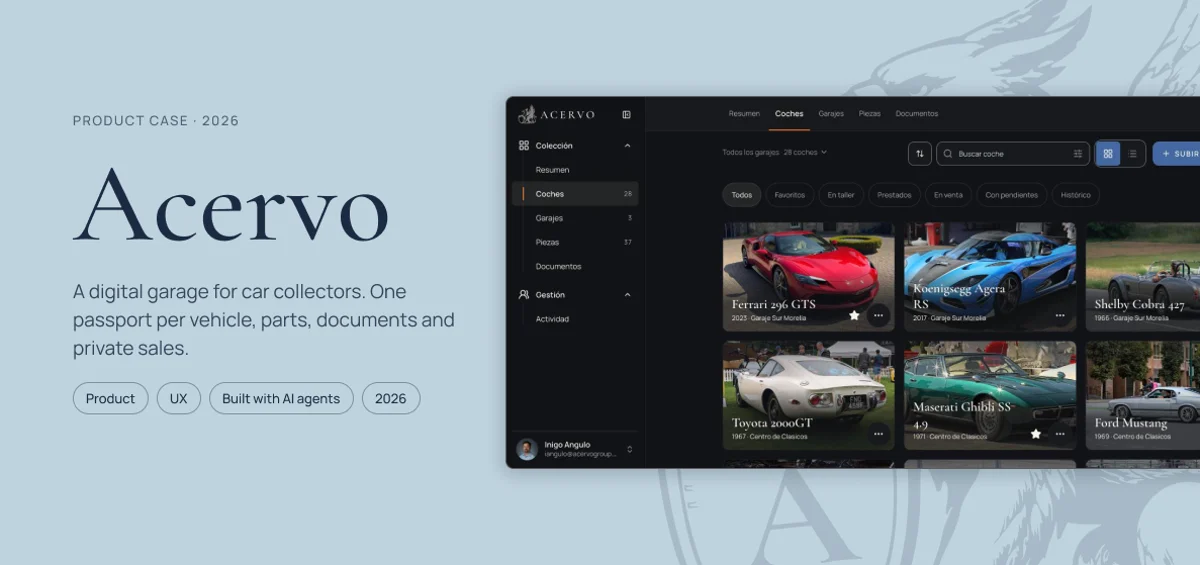
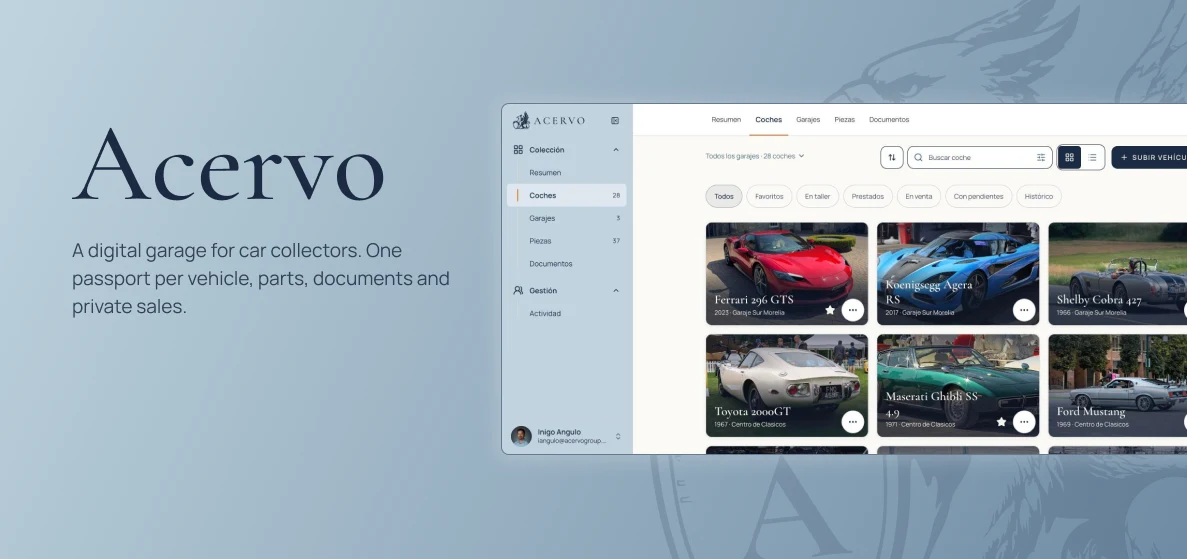
Acervo card thumbnail from Figma (no chips), also as OG image
Claude-Session: https://claude.ai/code/session_01HvDhLU7zv1GEaTFUNL8YVh

diff --git a/index.html b/index.html
@@ -960,7 +960,7 @@ window.addEventListener('DOMContentLoaded',function(){
 
 <div class="layer layer--raised"><div class="mx"><div class="sh"><span>// work</span></div>
 <div class="cards">
-<a href="work/acervo.html" class="cd cd--f cd--1"><div class="cd__img"><img src="img/acervo-card.webp" width="1200" height="630" decoding="async" alt="Acervo private automotive collections" style="width:100%;height:100%;object-fit:cover;object-position:center;position:absolute;inset:0"></div><div class="cd__body"><div class="cd__type"><span class="cd__tag cd__tag--who">Acervo &#183; Co-founder</span><span class="cd__tag cd__tag--what">AI Build &#183; Agent Team</span><span class="cd__tag cd__tag--result">17 Days to Production</span><span class="cd__tag cd__tag--live">Live &#183; app.acervogroup.com</span></div><h3 class="cd__name">Acervo</h3><p class="cd__desc">A private platform for automotive collections in Mexico: a digital passport per car, garages, parts custody, AI assisted onboarding and a sealed-offer private market. I owned product and engineering and built it solo leading a team of eight AI agents with two human gates: first commit to production in 17 days, 15 security gated releases and 500+ PRs in seven weeks, and the first 100-car collection loading.</p><div class="cd__foot"><span class="cd__yr">View case study</span><span class="cd__go">&#8594;</span></div></div></a>
+<a href="work/acervo.html" class="cd cd--f cd--1"><div class="cd__img"><img src="img/acervo-card.webp" width="1187" height="559" decoding="async" alt="Acervo private automotive collections" style="width:100%;height:100%;object-fit:cover;object-position:center;position:absolute;inset:0"></div><div class="cd__body"><div class="cd__type"><span class="cd__tag cd__tag--who">Acervo &#183; Co-founder</span><span class="cd__tag cd__tag--what">AI Build &#183; Agent Team</span><span class="cd__tag cd__tag--result">17 Days to Production</span><span class="cd__tag cd__tag--live">Live &#183; app.acervogroup.com</span></div><h3 class="cd__name">Acervo</h3><p class="cd__desc">A private platform for automotive collections in Mexico: a digital passport per car, garages, parts custody, AI assisted onboarding and a sealed-offer private market. I owned product and engineering and built it solo leading a team of eight AI agents with two human gates: first commit to production in 17 days, 15 security gated releases and 500+ PRs in seven weeks, and the first 100-car collection loading.</p><div class="cd__foot"><span class="cd__yr">View case study</span><span class="cd__go">&#8594;</span></div></div></a>
 <a href="work/checkout.html" class="cd cd--3"><div class="cd__img"><img src="img/gyg-card.webp" width="1080" height="1440" decoding="async" loading="lazy" alt="GetYourGuide checkout redesign" style="width:100%;height:100%;object-fit:cover;object-position:center 30%;position:absolute;inset:0"></div><div class="cd__body"><div class="cd__type"><span class="cd__tag cd__tag--who">GetYourGuide</span><span class="cd__tag cd__tag--what">CRO &#183; 10 A/B Tests</span><span class="cd__tag cd__tag--result">+11% Conversion</span><span class="cd__tag cd__tag--live">Live in Production</span></div><h3 class="cd__name">Checkout Funnel Redesign</h3><p class="cd__desc">The team was optimizing the wrong step. 38% of converters left checkout and came back with no re-entry experience. The problem wasn't payment. It was the gap nobody measured. +11%, 4 EU markets.</p><div class="cd__foot"><span class="cd__yr">View case study</span><span class="cd__go">&#8594;</span></div></div></a>
 <a href="work/shelfflow.html" class="cd cd--5"><div class="cd__img"><img src="img/shelfflow/cover-card.webp" width="1200" height="675" decoding="async" alt="ShelfFlow platform overview" style="width:100%;height:100%;object-fit:cover;object-position:center;position:absolute;inset:0"></div><div class="cd__body"><div class="cd__type"><span class="cd__tag cd__tag--who">Enterprise CPG &#183; NDA</span><span class="cd__tag cd__tag--what">Agentic Pipeline</span><span class="cd__tag cd__tag--result">1 Brief &#8594; 36 Packages</span><span class="cd__tag cd__tag--live">Interactive Demo</span></div><h3 class="cd__name">ShelfFlow</h3><p class="cd__desc">Retail content operations had become slow, fragmented and impossible to scale. I designed the supervision interface for an agentic pipeline: six AI agents generate and adapt, four human gates decide what ships across retailers.</p><div class="cd__foot"><span class="cd__yr">View case study</span><span class="cd__go">&#8594;</span></div></div></a>
 <div class="cards__side">
